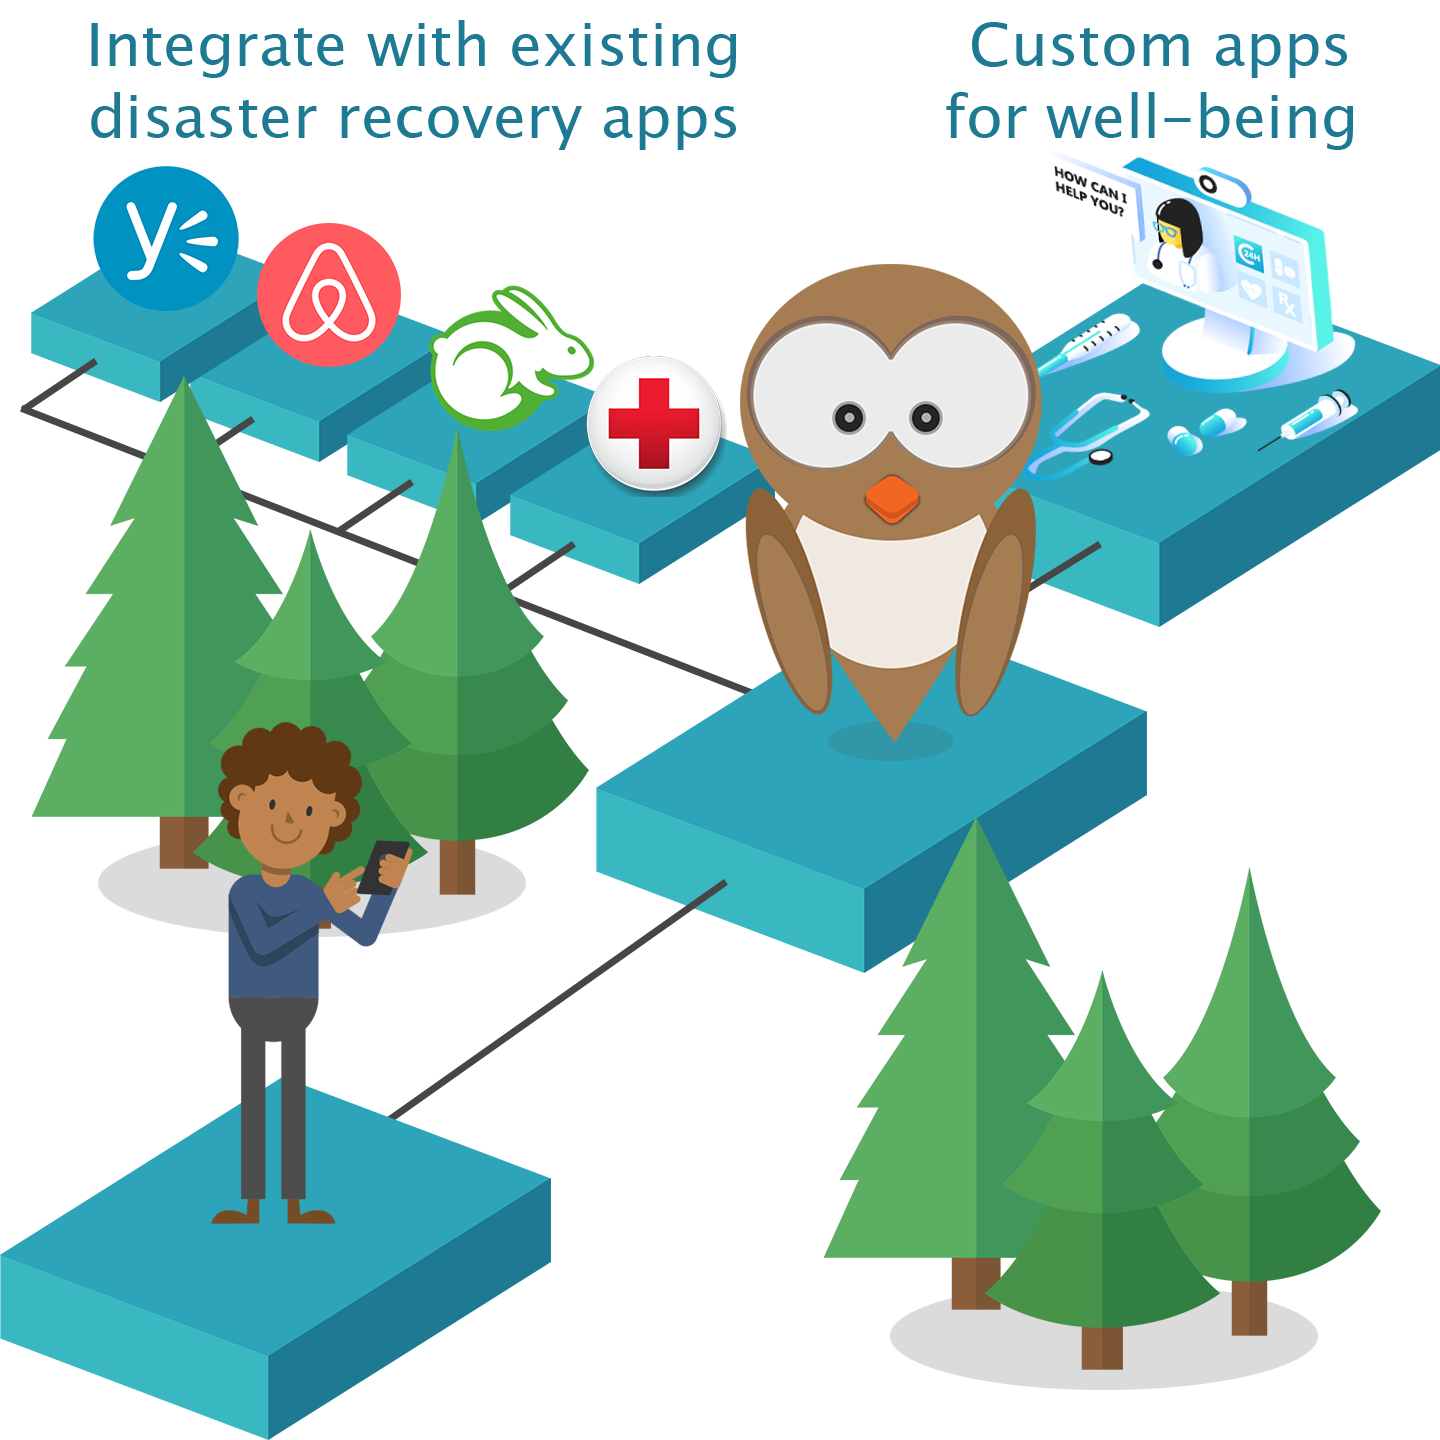
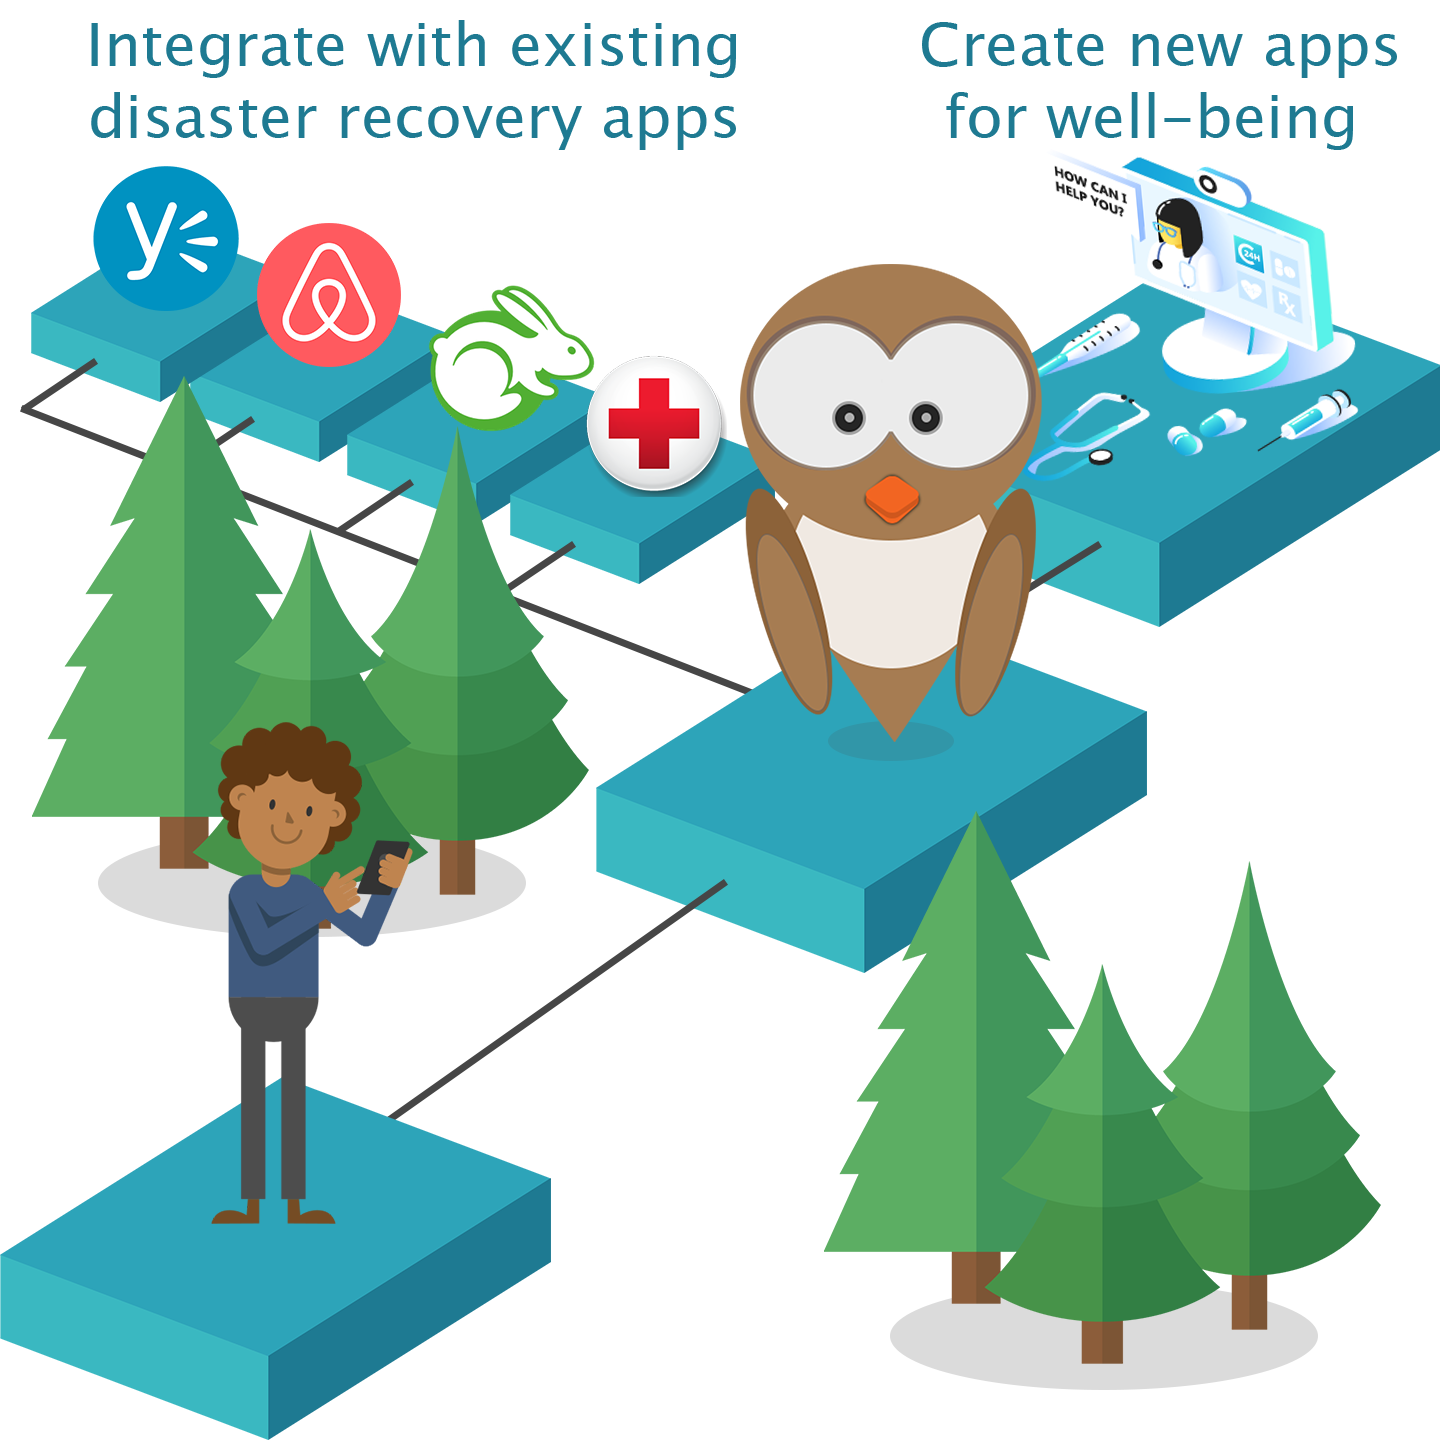
Added Sparrow Applets

diff --git a/Apps.html b/Apps.html
@@ -105,6 +105,137 @@
 
 
 
+<!------------------------------------The need--------------------------------->  
+<div class="container valign-wrapper" style="padding-top:10vh; padding-bottom: 10vh">
+    <div class="row">
+        <div class="col s12 ">
+
+            <h4 class="center white-text">
+                The challenge
+            </h4>
+
+            <br> 
+            <ul class="collapsible ">
+                <li>
+                    <div class="collapsible-header valign-wrapper"><i class="center valign-wrapper material-icons">add</i><h6>Disaster victims and responders need access to accurate information</h6></div>
+                    <div class="collapsible-body white">
+                        Disaster victims and responders need latest updates and information readily available
+                    </div>
+                </li>
+
+                <li>
+                    <div class="collapsible-header valign-wrapper"><i class="center valign-wrapper material-icons">add</i><h6>Information available is siloed in different apps / websites</h6></div>
+                    <div class="collapsible-body white">
+                        There are many apps and platforms that exist as point solutions - There is no one stop solution to get all data / updates.<br>
+                        Accessing disaster response services requires accessing websites or downloading apps
+                    </div>
+                </li>
+                <li>
+                    <div class="collapsible-header valign-wrapper"><i class="center valign-wrapper material-icons">add</i><h6>Disaster victims and medical workers need 'offline' digital tools</h6></div>
+                    <div class="collapsible-body white">
+                        Offlie Medical records management, Offline Notes recording, Offline translation, etc.                    
+                        
+                    </div>
+                </li>
+            </ul>
+        </div>
+    </div>
+</div>
+<!------------------------------------The need--------------------------------->  
+
+
+
+
+
+
+
+
+
+
+
+<!------------------------------------The solution--------------------------------->  
+<div class="white valign-wrapper" style="padding-top:5vh; padding-bottom: 5vh">
+        <div class="container  hide-on-med-and-down">
+            
+            <div class="row valign-wrapper">
+                <div class="col s12 ">
+                    <h6>
+                        <h4 class="center cyan-text text-darken-4">The Solution - Summary </h4>
+        
+                        <h5 class="center cyan-text text-darken-4">
+                            Platform to host ecosystem of applets accessible through ubiquitous communication interface
+                        </h5>
+
+                        <h5 class="cyan-text text-darken-4">
+                            Sparrow is like Alexa or Google Assistant, but way better
+                        </h5>
+                        Sparrow is a personal assistant, which is accessible through any chat interface that exists (Sparrow Net). 
+                        Sparrow doesn't just connect people to experts, but also connects people to various 'Sparrow Applets'. 
+                        We created few such apps (Sparrow AI), but our vision for Sparrow platform goes way beyond!
+                        <br>
+                        Information needed by disaster victims and first responders can be made easily accessible through these apps. 
+
+                        <h5 class="cyan-text text-darken-4">
+                            Developers can easily create 'Sparrow Applets' 
+                        </h5>
+                        Creating new applets is simple - Create new IBM Watson assistant instances. This process is analogous to creating new 'Alexa skills'. 
+                        <br>
+                        Existing information systems and dashboards like FEMA, American Red Cross apps, Airbnb disaster services, Task rabbit disaster services, etc can be easily integrated with Sparrow. 
+                        <br>
+                        Developers can also create new apps for 'offline-first' scenario (linked to Mesh networks) providing various medical and psychological well-being apps for disaster victims. 
+                            
+                        <h5 class="cyan-text text-darken-4">
+                            Offline tools made available through Sparrow App 
+                        </h5>
+                        Sparrow App comes with offline management tools to help people affected by disasters. The App comes with 'offline' intelligence and various data management services to aid recovery during disasters. 
+
+                    </h6>
+                </div>  
+            </div>         
+        </div>
+        
+        
+        <div class="container hide-on-large-only">
+            <div class="row ">
+                <div class="col s12">
+                    <h6>
+                        <h4 class="center cyan-text text-darken-4">The Solution - Summary </h4>
+    
+                        <h5 class="center cyan-text text-darken-4">
+                            Platform to host ecosystem of applets accessible through ubiquitous communication interface
+                        </h5>
+
+                        <h5 class="cyan-text text-darken-4">
+                            Sparrow is like Alexa or Google Assistant, but way better
+                        </h5>
+                        Sparrow is a personal assistant, which is accessible through any chat interface that exists (Sparrow Net). 
+                        Sparrow doesn't just connect people to experts, but also connects people to various 'Sparrow Applets'. 
+                        We created few such apps (Sparrow AI), but our vision for Sparrow platform goes way beyond!
+                        <br>
+                        Information needed by disaster victims and first responders can be made easily accessible through these apps. 
+
+                        <h5 class="cyan-text text-darken-4">
+                            Developers can easily create 'Sparrow Applets' 
+                        </h5>
+                        Creating new applets is simple - Create new IBM Watson assistant instances. This process is analogous to creating new 'Alexa skills'. 
+                        <br>
+                        Existing information systems and dashboards like FEMA, American Red Cross apps, Airbnb disaster services, Task rabbit disaster services, etc can be easily integrated with Sparrow. 
+                        <br>
+                        Developers can also create new apps for 'offline-first' scenario (linked to Mesh networks) providing various medical and psychological well-being apps for disaster victims. 
+                            
+                        <h5 class="cyan-text text-darken-4">
+                            Offline tools made available through Sparrow App 
+                        </h5>
+                        Sparrow App comes with offline management tools to help people affected by disasters. The App comes with 'offline' intelligence and various data management services to aid recovery during disasters.   
+                    </h6>
+                </div>
+            </div>
+        </div>
+        </div>
+        
+
+
+
 
 
 
